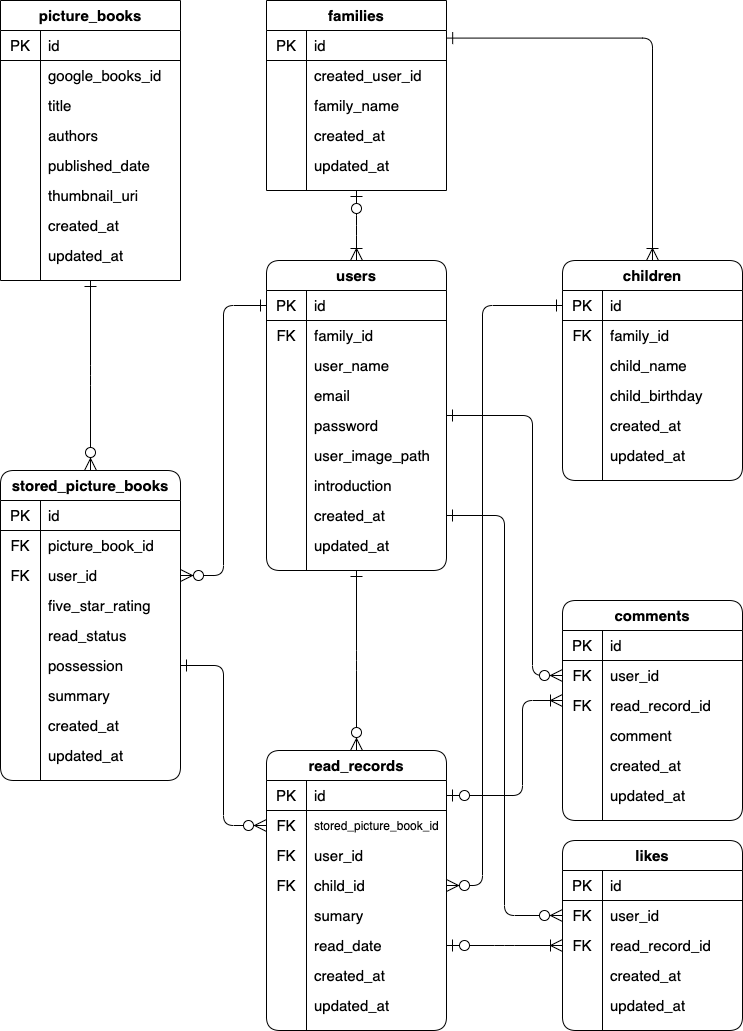
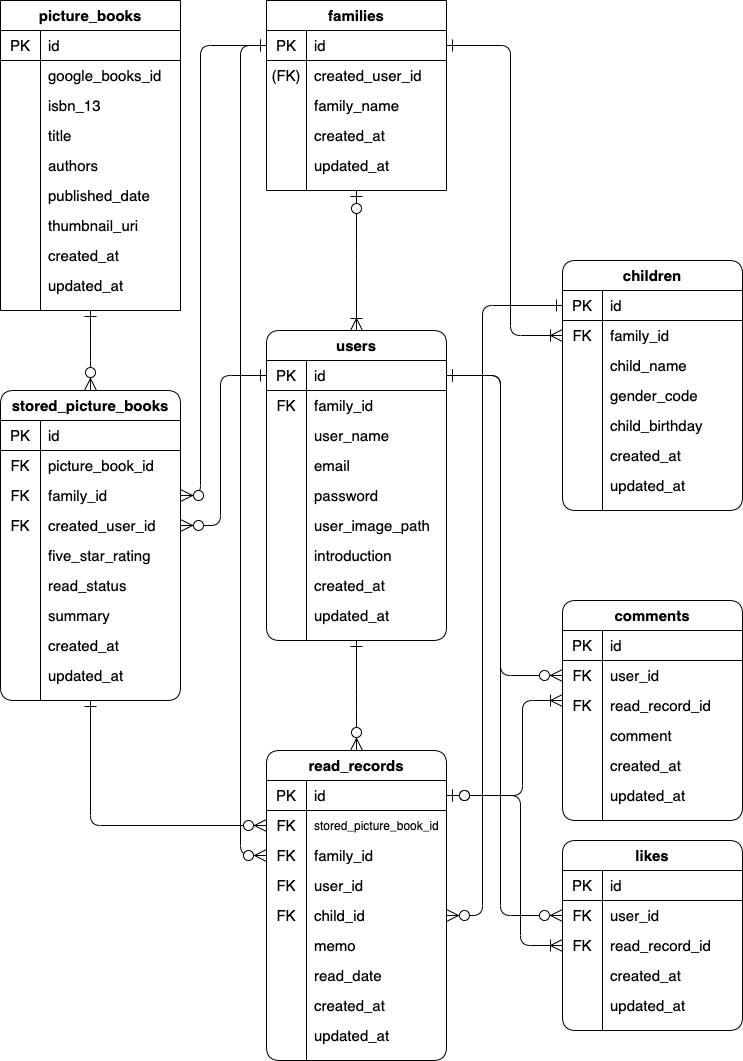
[docs] 基本設計整理（ページ遷移図、WF、ER図、テーブル設計） closed #74
- README.md を合わせて微修正

diff --git a/src/search_picture_book.php b/src/search_picture_book.php
@@ -1,7 +1,5 @@
 <?php
 
-const MAX = 10;
-
 session_start();
 
 require_once __DIR__ . '/lib/escape.php';

diff --git a/README.md b/README.md
@@ -1,11 +1,23 @@
-#  絵本読み聞かせ記録・管理アプリ「Yonde（よんで）」（案）
-- 案段階です。
+#  絵本読み聞かせアルバム（管理・記録）アプリ「よんで-Yonde-」（案）
+- ＊案段階です。
+
 - ページで公開予定です。
 - URL：未定
 
 ## アプリ概要（案）
 子供に絵本の読み聞かせをした記録を管理できるアプリです。
-PHPで制作予定です。
+### **こどもの「よんで」が楽しみになる**
+
+「絵本棚」
+- これからよみたい本、これまでよんだ本を飾ることができます。
+
+「読み聞かせ記録・管理」
+- 絵本棚に登録した本の読み聞かせた記録を付けることができます。
+
+「家族と共有」
+- 家族と絵本棚と読み聞かせ記録を共有することができます。
+
+PHP（Laravel）で制作予定です。
 
 作成した背景や想いなど、より詳細な情報は下記をご覧ください。
 ## ポートフォリオ解説
@@ -16,20 +28,22 @@ PHPで制作予定です。
 - Bootstrap 4.5.0
 - jQuery 3.5.1
 - PHP 7.4.13
+- Laravel
 - MySQL 5.
 - PHPMyAdmin 5.0.4
 - Heroku（Herokuアップ成功後 → AWS）
-- AWS（EC2、RDS、ELB、S3、Route53、IAM）（予定）
+- AWS（EC2、RDS、ELB、S3、Route53、IAM）
 - Docker
-- CircleCI（予定）
+- CircleCI
 - Git/GitHub
 - Apache 2.4.38
 - 開発環境：ローカル環境(MacOS), VSCode
 
 ## 機能一覧
-PHPで制作予定のアプリです。
+-
 
 ## 使い方
+-
 
 ## 使用画面のイメージ
 2021.1.3時点
@@ -41,7 +55,9 @@ PHPで制作予定のアプリです。
 ## ローカル環境へのインストール方法
 
 ## DB設計（ER図）
-![erd](https://user-images.githubusercontent.com/57904570/102933343-72d9ad80-44e5-11eb-95e3-e223ac06aa21.png)
+2021.1.14時点
+![erd](https://user-images.githubusercontent.com/57904570/104513445-06108980-5633-11eb-9ecd-3f5f131bbc22.png)
+
 ## その他
 
 ## 作者
